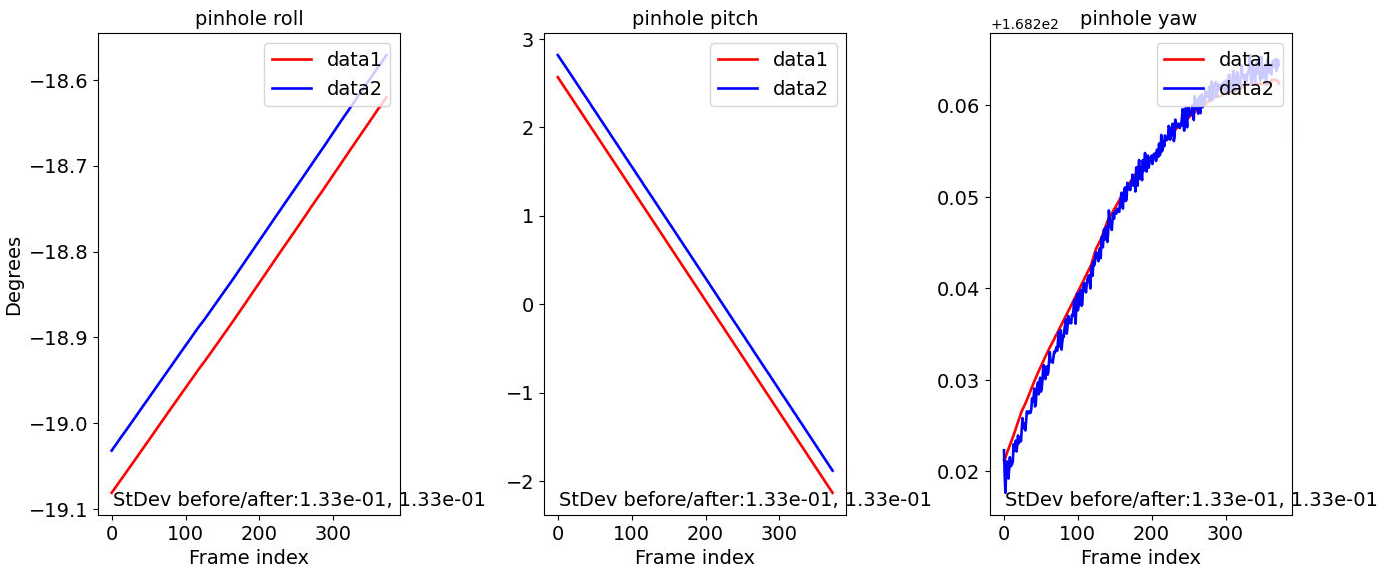
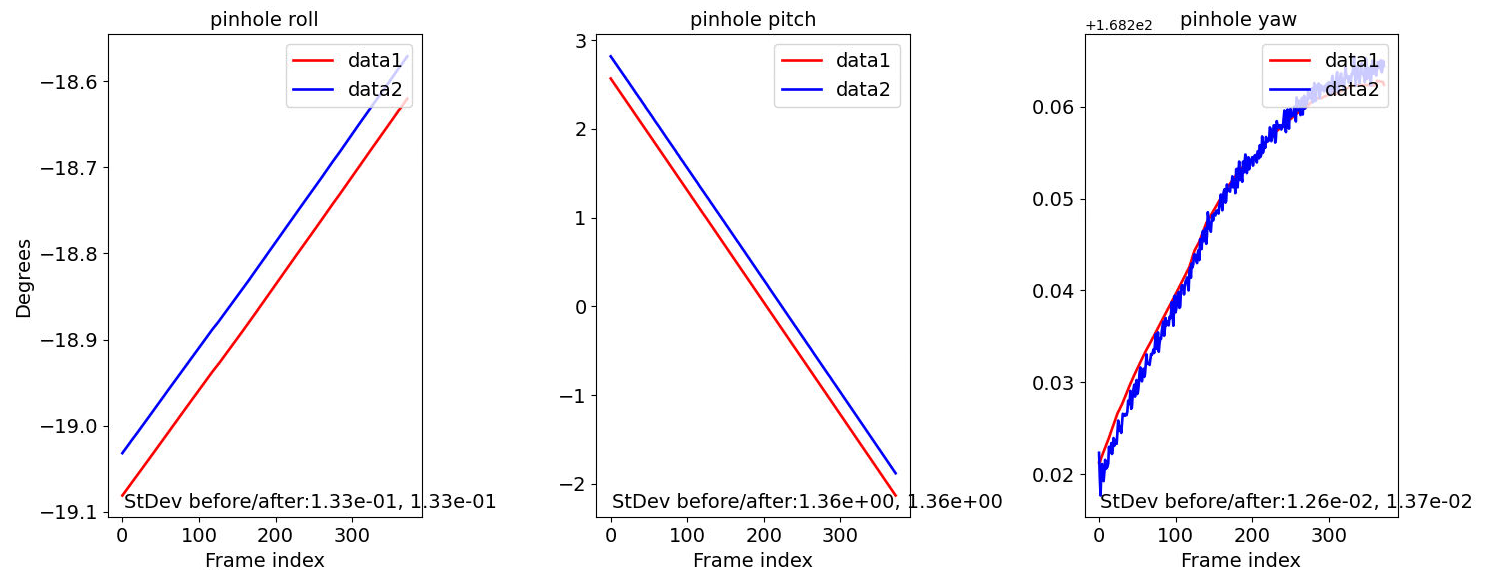
orbit_plot: Fix some glitches

diff --git a/src/asp/Tools/orbit_plot.py b/src/asp/Tools/orbit_plot.py
@@ -530,6 +530,7 @@ def plot_row(ax, row, orbits, origPrefix, optPrefix, orbit_labels, origTag, optT
   print(origTag + " " + camType + " roll std: " + orig_roll_std + " degrees")
   print(origTag + " " + camType + " pitch std: " + orig_pitch_std + " degrees")
   print(origTag + " " + camType + " yaw std: " + orig_yaw_std + " degrees")
+  (opt_roll_std, opt_pitch_std, opt_yaw_std) = (0, 0, 0) # initialize
   if numSets == 2:
       opt_roll_std = fmt.format(np.std(opt_roll))
       opt_pitch_std = fmt.format(np.std(opt_pitch))
@@ -562,13 +563,14 @@ def plot_row(ax, row, orbits, origPrefix, optPrefix, orbit_labels, origTag, optT
   #A[1].set_ylabel('Degrees') # don't repeat this as it takes space
   #A[2].set_ylabel('Degrees')
 
+  stds = ((orig_roll_std, opt_roll_std), (orig_pitch_std, opt_pitch_std), (orig_yaw_std, opt_yaw_std))
   for index in range(3):
       A[index].set_xlabel('Frame index')
       # Calc stddev text
       if numSets == 1:
-          txt = 'StDev:' + orig_roll_std
+          txt = 'StDev:' + stds[index][0]
       else: 
-          txt = 'StDev before/after:' + orig_roll_std + ", " + opt_roll_std
+          txt = 'StDev before/after:' + stds[index][0] + ", " + stds[index][1]
       # Add stdev values as text
       A[index].text(0.05, 0.05, txt,
           va='top', color='k', transform=A[index].transAxes, fontsize=fs)    
@@ -602,7 +604,7 @@ parser.add_argument('--dataset-label', dest = 'dataset_label', default = '',
                     'one, separate them by comma, with no spaces in between. If not set, '  + \
                     'will use the dataset name.')
 
-parser.add_argument('orbit-label', dest = 'orbit_label', default = '',
+parser.add_argument('--orbit-label', dest = 'orbit_label', default = '',
                     help='The label to use for each orbital group (will be shown as part '  + \
                     'of the title). If more than one, separate them by comma, with no '     + \
                     'spaces in between. If not set, will use the orbit id.')
@@ -636,6 +638,9 @@ parser.add_argument('--figure-size', dest = 'figure_size', default = '15,15',
 parser.add_argument('--line-width', dest = 'line_width', type=float, default = 1.5,
                     help='Line width for the plots.')
 
+parser.add_argument('--font-size', dest = 'font_size', type=float, default = 14,
+                    help='Font size for the plots.')
+
 (options, args) = parser.parse_known_args(sys.argv)
 
 # Throw an error if not all args have been parsed
@@ -655,6 +660,11 @@ if options.trim_ratio < 0:
 
 if options.line_width <= 0:
     print("The value of --line-width must be positive.")
+    parser.print_help()
+    sys.exit(1)
+
+if options.font_size <= 0:
+    print("The value of --font-size must be positive.")
     parser.print_help()
     sys.exit(1)
 
@@ -704,7 +714,7 @@ f, ax = plt.subplots(len(orbits), 3, sharex=True, sharey = False,
 plt.rcParams["legend.loc"] = 'upper right' 
 
 # Set up the font for all elements
-fs = 14
+fs = options.font_size
 plt.rcParams.update({'font.size': fs})
 plt.rc('axes', titlesize = fs)   # fontsize of the axes title
 plt.rc('axes', labelsize = fs)   # fontsize of the x and y labels

diff --git a/docs/tools/orbit_plot.rst b/docs/tools/orbit_plot.rst
@@ -233,6 +233,9 @@ Command-line options
 --line-width <float (default: 1.5)>
     Line width for the plots.
 
+--font-size <int (default: 14)>
+    Font size for the plots.
+    
 -h, --help
     Display this help message.
 
